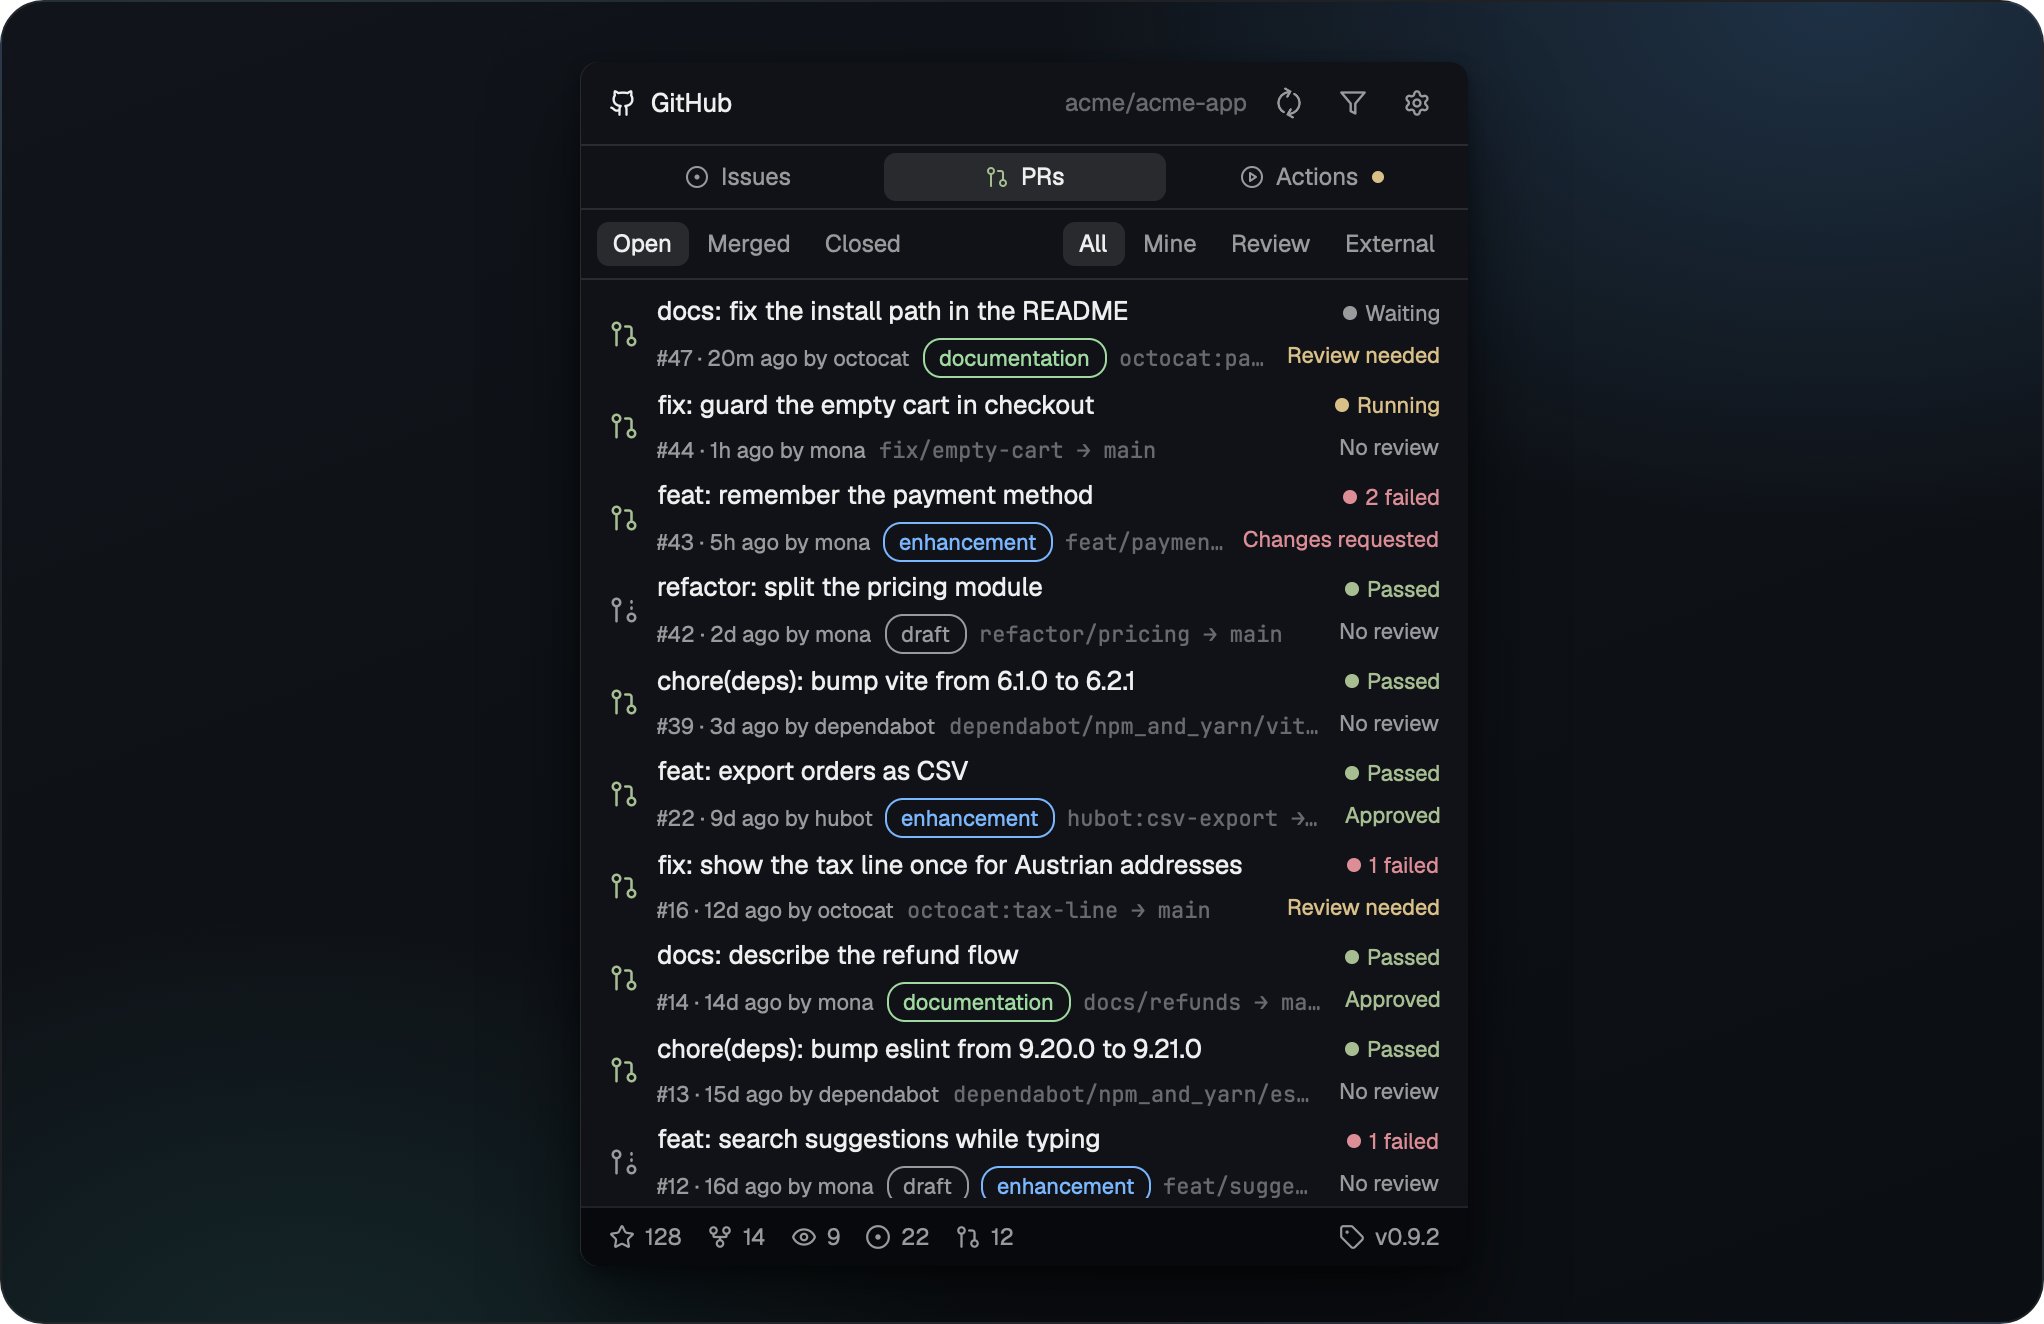
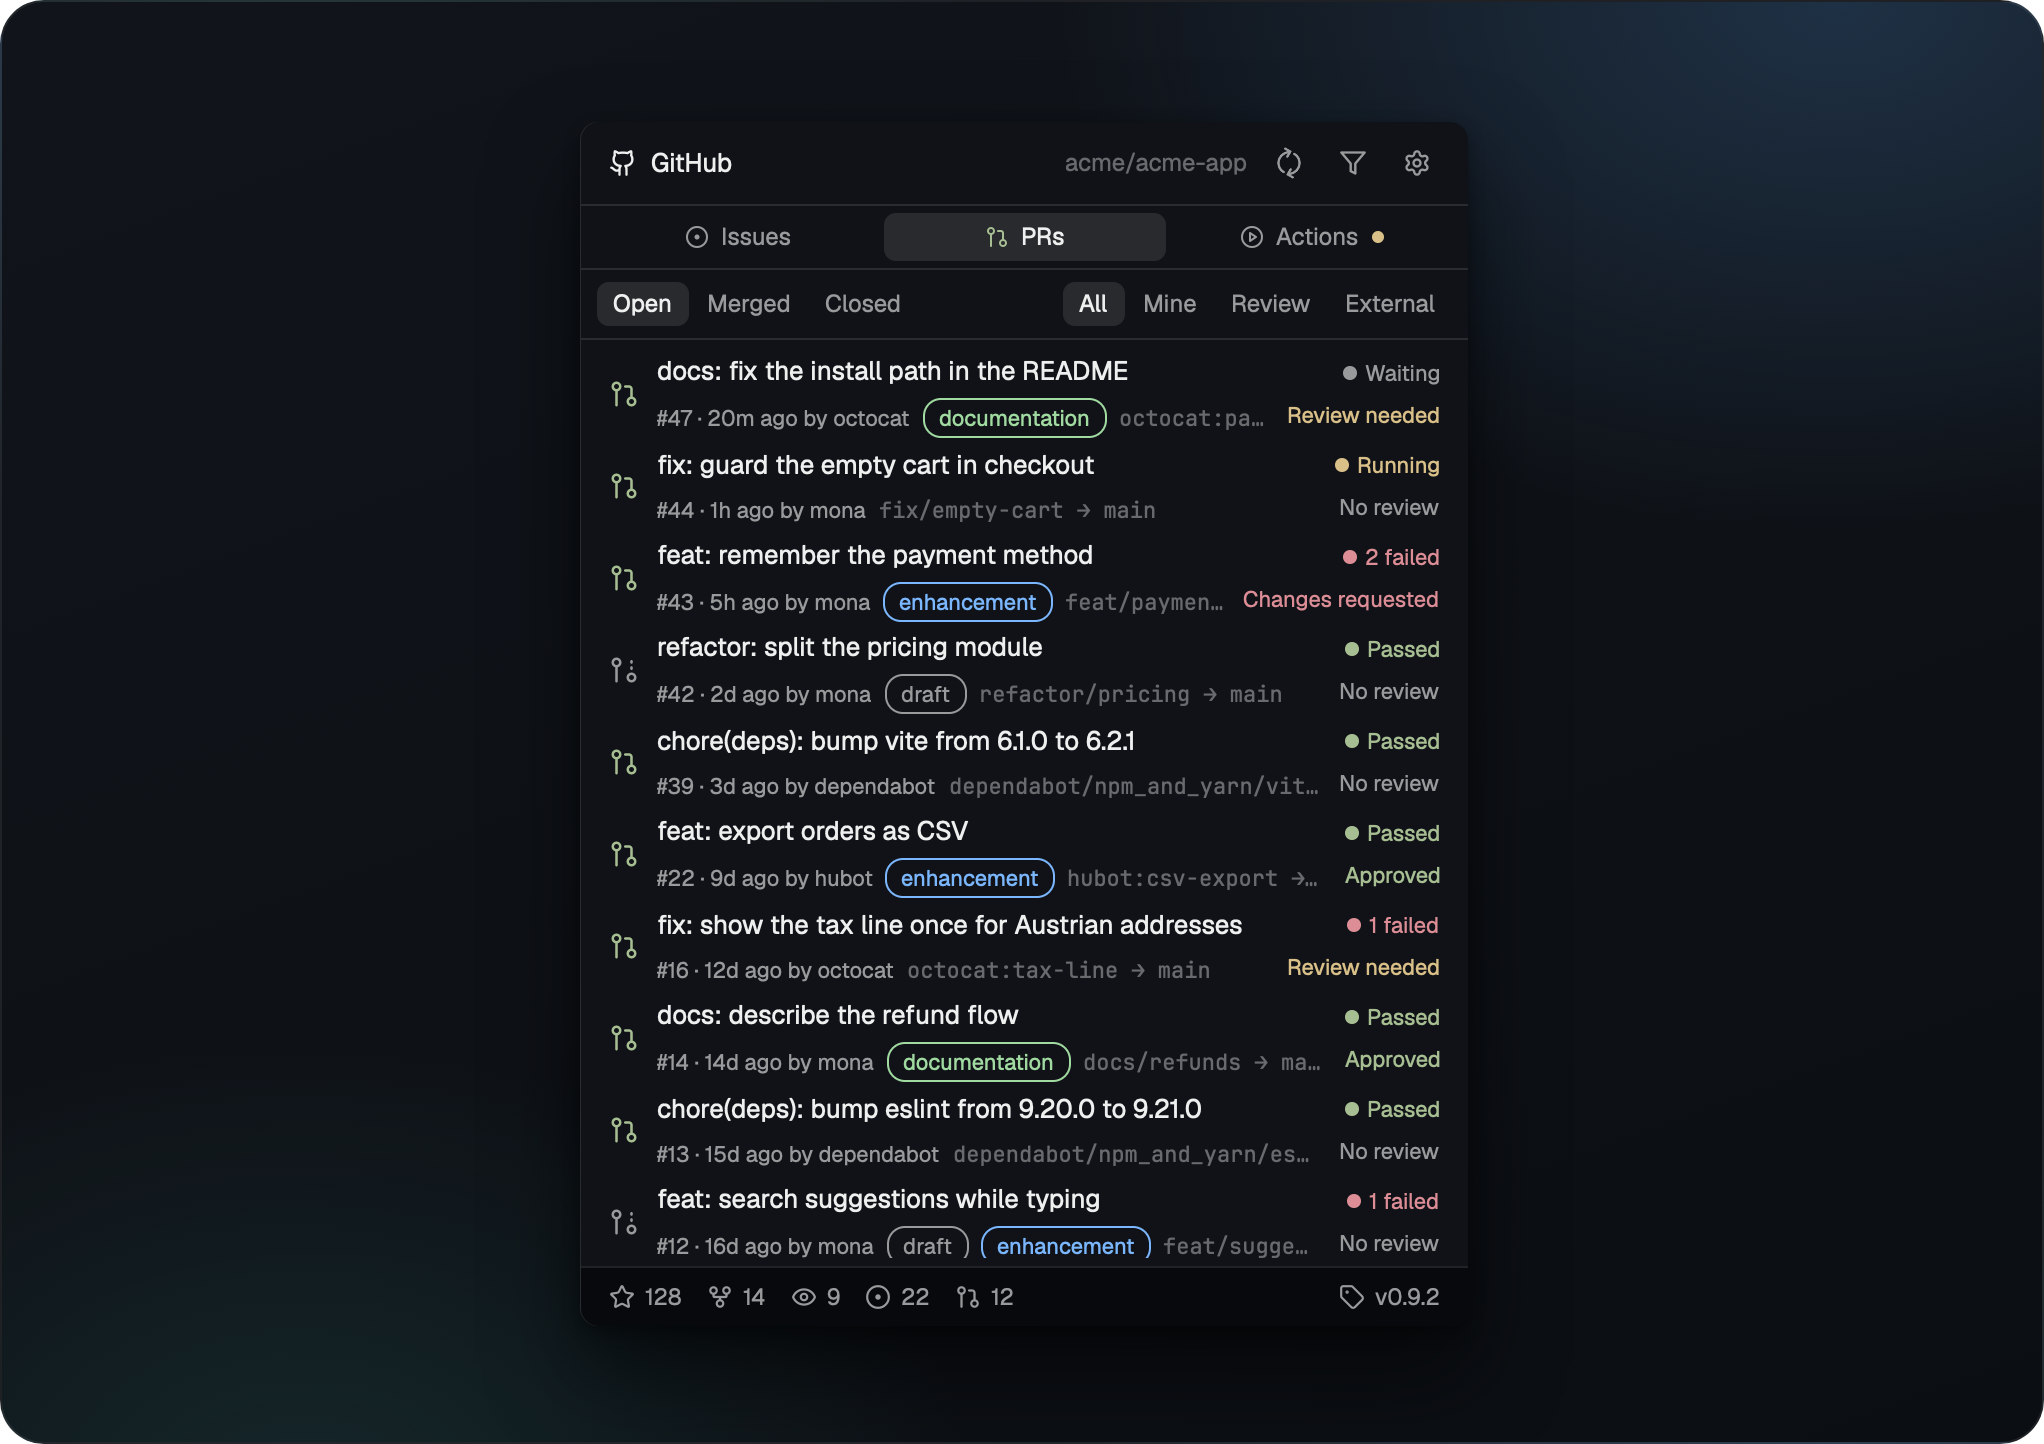
docs: more room above and below the README cards

Changed region(s): [[0.2774, 0.0619, 0.7089, 0.96], [0.4932, 0.1239, 0.524, 0.1858]]

diff --git a/scripts/screenshots/cards/issues.html b/scripts/screenshots/cards/issues.html
@@ -2,9 +2,9 @@
 <html lang="en"><head><meta charset="utf-8"><title>Issues card</title>
 <link rel="stylesheet" href="card.css">
 <style>
-/* The panel alone: the Issues tab grouped by milestone; the list ends after its last whole row and joins the status bar. Shown at its own size (2x); rendered by shoot.sh at 1022 x 571. */
-html, body { width: 1022px; height: 571px; }
-.one { left: 289px; top: 30px; width: 444px; }
+/* The panel alone: the Issues tab grouped by milestone; the list ends after its last whole row and joins the status bar. Shown at its own size (2x); rendered by shoot.sh at 1022 x 631. */
+html, body { width: 1022px; height: 631px; }
+.one { left: 289px; top: 60px; width: 444px; }
 </style></head>
 <body><div class="frame">
   <div class="shot one"><img src="issues-panel-top.png" alt=""><img src="issues-panel-foot.png" alt=""></div>

diff --git a/scripts/screenshots/cards/actions.html b/scripts/screenshots/cards/actions.html
@@ -2,9 +2,9 @@
 <html lang="en"><head><meta charset="utf-8"><title>Actions card</title>
 <link rel="stylesheet" href="card.css">
 <style>
-/* The panel alone: the Actions tab; the list ends after its last whole row and joins the status bar. Shown at its own size (2x); rendered by shoot.sh at 1022 x 573. */
-html, body { width: 1022px; height: 573px; }
-.one { left: 289px; top: 30px; width: 444px; }
+/* The panel alone: the Actions tab; the list ends after its last whole row and joins the status bar. Shown at its own size (2x); rendered by shoot.sh at 1022 x 633. */
+html, body { width: 1022px; height: 633px; }
+.one { left: 289px; top: 60px; width: 444px; }
 </style></head>
 <body><div class="frame">
   <div class="shot one"><img src="actions-panel-top.png" alt=""><img src="actions-panel-foot.png" alt=""></div>

diff --git a/scripts/screenshots/cards/run-overlay.html b/scripts/screenshots/cards/run-overlay.html
@@ -2,9 +2,9 @@
 <html lang="en"><head><meta charset="utf-8"><title>Run overlay card</title>
 <link rel="stylesheet" href="card.css">
 <style>
-/* A failed run in its overlay: jobs, steps and the trimmed log. Shown at its own size (2x); rendered by shoot.sh at 1022 x 739. */
-html, body { width: 1022px; height: 739px; }
-.one { left: 142px; top: 30px; width: 738px; }
+/* A failed run in its overlay: jobs, steps and the trimmed log. Shown at its own size (2x); rendered by shoot.sh at 1022 x 799. */
+html, body { width: 1022px; height: 799px; }
+.one { left: 142px; top: 60px; width: 738px; }
 </style></head>
 <body><div class="frame">
   <div class="shot one cut"><img src="run-overlay.png" alt=""></div>

diff --git a/scripts/screenshots/cards/issue-overlay.html b/scripts/screenshots/cards/issue-overlay.html
@@ -2,9 +2,9 @@
 <html lang="en"><head><meta charset="utf-8"><title>Issue overlay card</title>
 <link rel="stylesheet" href="card.css">
 <style>
-/* An issue in its overlay, down to the comment box. Shown at its own size (2x); rendered by shoot.sh at 1022 x 782. */
-html, body { width: 1022px; height: 782px; }
-.one { left: 133px; top: 30px; width: 755px; }
+/* An issue in its overlay, down to the comment box. Shown at its own size (2x); rendered by shoot.sh at 1022 x 842. */
+html, body { width: 1022px; height: 842px; }
+.one { left: 133px; top: 60px; width: 755px; }
 </style></head>
 <body><div class="frame">
   <div class="shot one cut"><img src="issue-overlay.png" alt=""></div>

diff --git a/scripts/screenshots/cards/pr-overlay.html b/scripts/screenshots/cards/pr-overlay.html
@@ -2,9 +2,9 @@
 <html lang="en"><head><meta charset="utf-8"><title>Pull request overlay card</title>
 <link rel="stylesheet" href="card.css">
 <style>
-/* A pull request in its overlay with the merge box. Shown at its own size (2x); rendered by shoot.sh at 1022 x 820. */
-html, body { width: 1022px; height: 820px; }
-.one { left: 133px; top: 30px; width: 755px; }
+/* A pull request in its overlay with the merge box. Shown at its own size (2x); rendered by shoot.sh at 1022 x 880. */
+html, body { width: 1022px; height: 880px; }
+.one { left: 133px; top: 60px; width: 755px; }
 </style></head>
 <body><div class="frame">
   <div class="shot one"><img src="pr-overlay.png" alt=""></div>

diff --git a/scripts/screenshots/cards/prs.html b/scripts/screenshots/cards/prs.html
@@ -2,9 +2,9 @@
 <html lang="en"><head><meta charset="utf-8"><title>Pull requests card</title>
 <link rel="stylesheet" href="card.css">
 <style>
-/* The panel alone: the PRs tab with checks and reviews. Shown at its own size (2x); rendered by shoot.sh at 1022 x 662. */
-html, body { width: 1022px; height: 662px; }
-.one { left: 289px; top: 30px; width: 444px; }
+/* The panel alone: the PRs tab with checks and reviews. Shown at its own size (2x); rendered by shoot.sh at 1022 x 722. */
+html, body { width: 1022px; height: 722px; }
+.one { left: 289px; top: 60px; width: 444px; }
 </style></head>
 <body><div class="frame">
   <div class="shot one"><img src="prs-panel.png" alt=""></div>

diff --git a/scripts/screenshots/cards/settings.html b/scripts/screenshots/cards/settings.html
@@ -2,9 +2,9 @@
 <html lang="en"><head><meta charset="utf-8"><title>Settings card</title>
 <link rel="stylesheet" href="card.css">
 <style>
-/* The Settings dialog. Shown at its own size (2x); rendered by shoot.sh at 1022 x 904. */
-html, body { width: 1022px; height: 904px; }
-.one { left: 202px; top: 30px; width: 618px; }
+/* The Settings dialog. Shown at its own size (2x); rendered by shoot.sh at 1022 x 964. */
+html, body { width: 1022px; height: 964px; }
+.one { left: 202px; top: 60px; width: 618px; }
 </style></head>
 <body><div class="frame">
   <div class="shot one"><img src="settings-dialog.png" alt=""></div>
